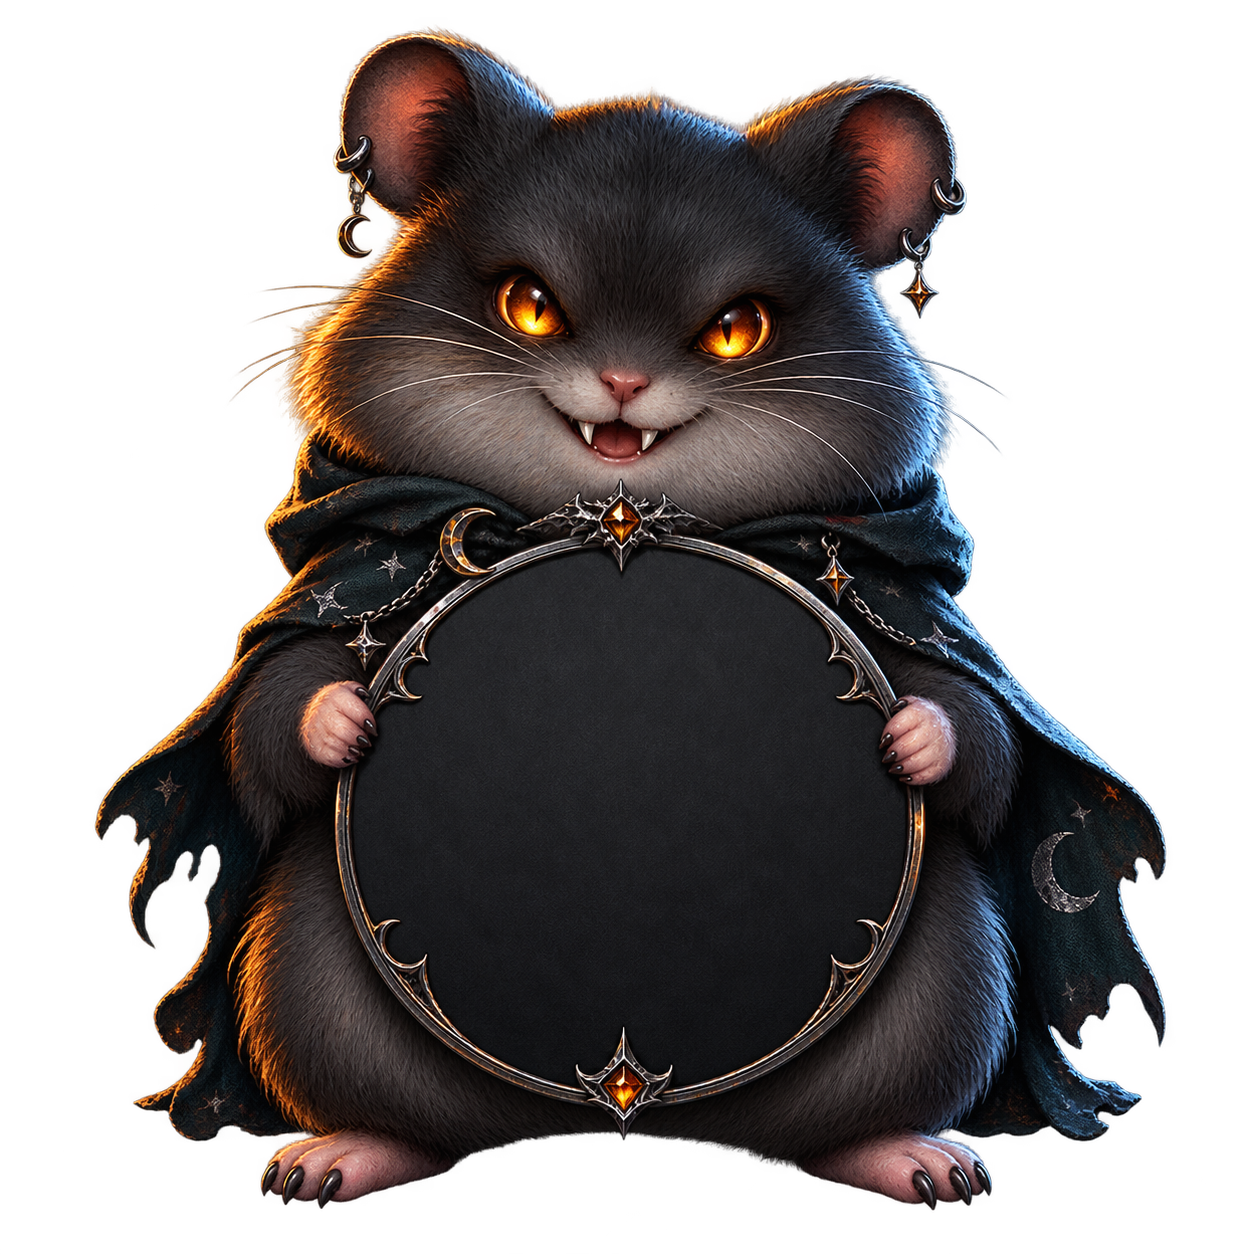
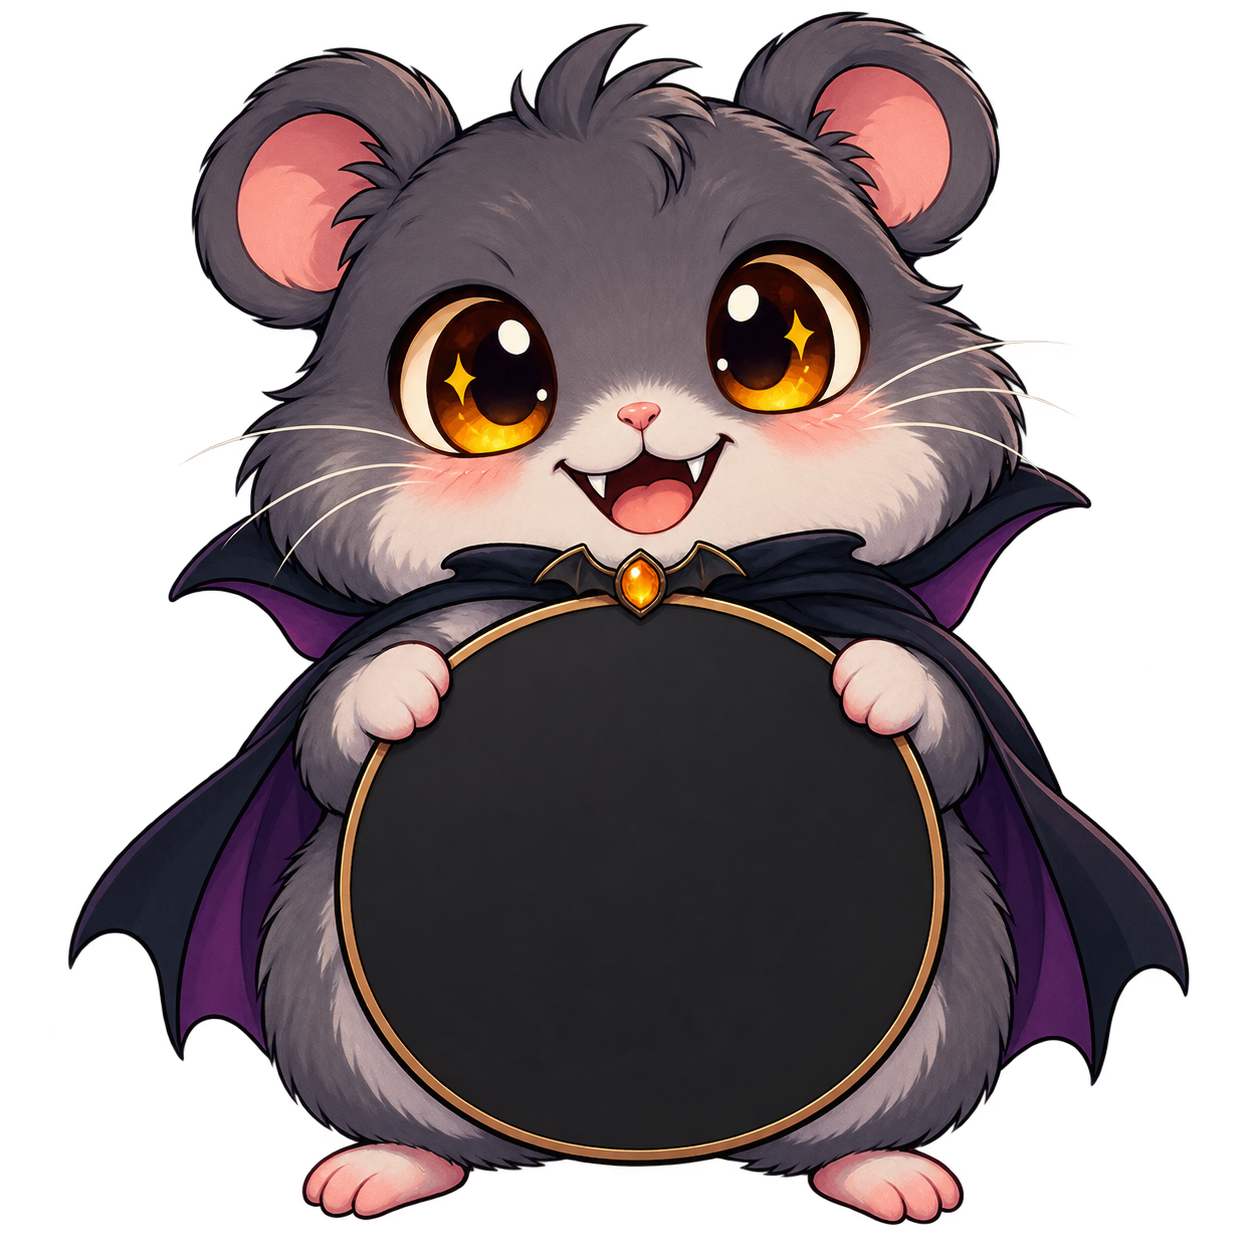
feat: limit lucky number draws to five minutes

diff --git a/index.html b/index.html
@@ -112,6 +112,8 @@
       .number { position: absolute; z-index: 1; top: 65%; color: var(--coral); font-size: clamp(96px, 15vw, 156px); font-weight: 700; line-height: 1; letter-spacing: -0.08em; text-shadow: 0 2px 0 rgba(255, 255, 255, 0.3); transform: translateY(-50%); }
       :root[data-theme='dark'] .number { color: var(--gold); text-shadow: 0 2px 0 rgba(0, 0, 0, 0.45), 0 0 16px rgba(243, 200, 92, 0.3); }
       .number-label { position: absolute; z-index: 2; top: 81%; color: var(--muted); font-size: 10px; font-weight: 700; letter-spacing: 0.12em; transform: translateY(-50%); }
+      .hamster-message { position: absolute; z-index: 3; top: 2%; left: 50%; width: min(82%, 280px); margin: 0; padding: 10px 14px; border: 1px solid var(--line); border-radius: 16px; color: var(--ink); background: var(--card); box-shadow: 0 8px 18px var(--card-depth); font-size: 13px; font-weight: 700; line-height: 1.45; text-align: center; transform: translateX(-50%); }
+      .hamster-message::after { content: ''; position: absolute; bottom: -7px; left: 50%; width: 12px; height: 12px; border-right: 1px solid var(--line); border-bottom: 1px solid var(--line); background: var(--card); transform: translateX(-50%) rotate(45deg); }
 
       .actions { display: flex; align-items: center; gap: 16px; margin-top: 34px; }
       button { border: 0; border-radius: 999px; padding: 14px 21px; color: #fffdf8; background: var(--ink); font: inherit; font-size: 14px; font-weight: 700; cursor: pointer; transition: transform 180ms ease, background 180ms ease; }
@@ -152,7 +154,7 @@
           <p class="intro">햄스터가 오늘의 행운 숫자를 들고 왔어요. 작은 행운은 생각보다 가까이 있습니다.</p>
           <div class="actions">
             <button id="draw-button" type="button">다시 뽑기 <span aria-hidden="true">↗</span></button>
-            <span class="hint">오늘 하루를 위한 숫자</span>
+            <span class="hint">5분마다 한 번 뽑을 수 있어요</span>
           </div>
         </div>
 
@@ -162,6 +164,7 @@
             <img class="hamster hamster-dark" src="assets/hamster-dark.png" alt="행운 숫자 팻말을 든 무서운 햄스터" />
             <span class="number" id="lucky-number">7</span>
             <span class="number-label">YOUR LUCKY NUMBER</span>
+            <p class="hamster-message" id="hamster-message" role="status" hidden></p>
           </div>
         </div>
       </section>
@@ -194,17 +197,55 @@
       document.querySelector('#today').textContent = dateFormatter.format(today);
 
       const dayKey = `${today.getFullYear()}-${today.getMonth() + 1}-${today.getDate()}`;
-      let seed = [...dayKey].reduce((total, character) => total + character.charCodeAt(0), 0);
+      const cooldownMs = 5 * 60 * 1000;
+      const numberKey = `lucky-number-${dayKey}`;
+      const seedKey = `lucky-number-seed-${dayKey}`;
+      const cooldownKey = `lucky-number-next-draw-${dayKey}`;
+      const initialSeed = [...dayKey].reduce((total, character) => total + character.charCodeAt(0), 0);
+      let seed = Number(localStorage.getItem(seedKey)) || initialSeed;
       const numberElement = document.querySelector('#lucky-number');
       const drawButton = document.querySelector('#draw-button');
+      const hamsterMessage = document.querySelector('#hamster-message');
 
-      function drawNumber() {
-        seed = (seed * 9301 + 49297) % 233280;
-        numberElement.textContent = String(Math.floor((seed / 233280) * 99) + 1);
+      function formatRemainingTime(milliseconds) {
+        const totalSeconds = Math.ceil(milliseconds / 1000);
+        const minutes = Math.floor(totalSeconds / 60);
+        const seconds = totalSeconds % 60;
+        return minutes > 0 ? `${minutes}분 ${seconds}초` : `${seconds}초`;
       }
 
-      drawNumber();
-      drawButton.addEventListener('click', drawNumber);
+      function showHamsterMessage(message) {
+        hamsterMessage.textContent = message;
+        hamsterMessage.hidden = false;
+      }
+
+      function drawNumber(startCooldown = true) {
+        seed = (seed * 9301 + 49297) % 233280;
+        numberElement.textContent = String(Math.floor((seed / 233280) * 99) + 1);
+        localStorage.setItem(seedKey, String(seed));
+        localStorage.setItem(numberKey, numberElement.textContent);
+
+        if (startCooldown) {
+          localStorage.setItem(cooldownKey, String(Date.now() + cooldownMs));
+          showHamsterMessage('새 행운 숫자를 골랐어! 5분 뒤에 또 만나요.');
+        }
+      }
+
+      const savedNumber = localStorage.getItem(numberKey);
+      if (savedNumber) numberElement.textContent = savedNumber;
+      else drawNumber(false);
+
+      drawButton.addEventListener('click', () => {
+        const nextDrawAt = Number(localStorage.getItem(cooldownKey)) || 0;
+        const remainingTime = nextDrawAt - Date.now();
+
+        if (remainingTime > 0) {
+          showHamsterMessage(`아직 기다려야 해! ${formatRemainingTime(remainingTime)} 뒤에 다시 뽑을 수 있어.`);
+          return;
+        }
+
+        drawNumber();
+      });
     </script>
   </body>
 </html>
